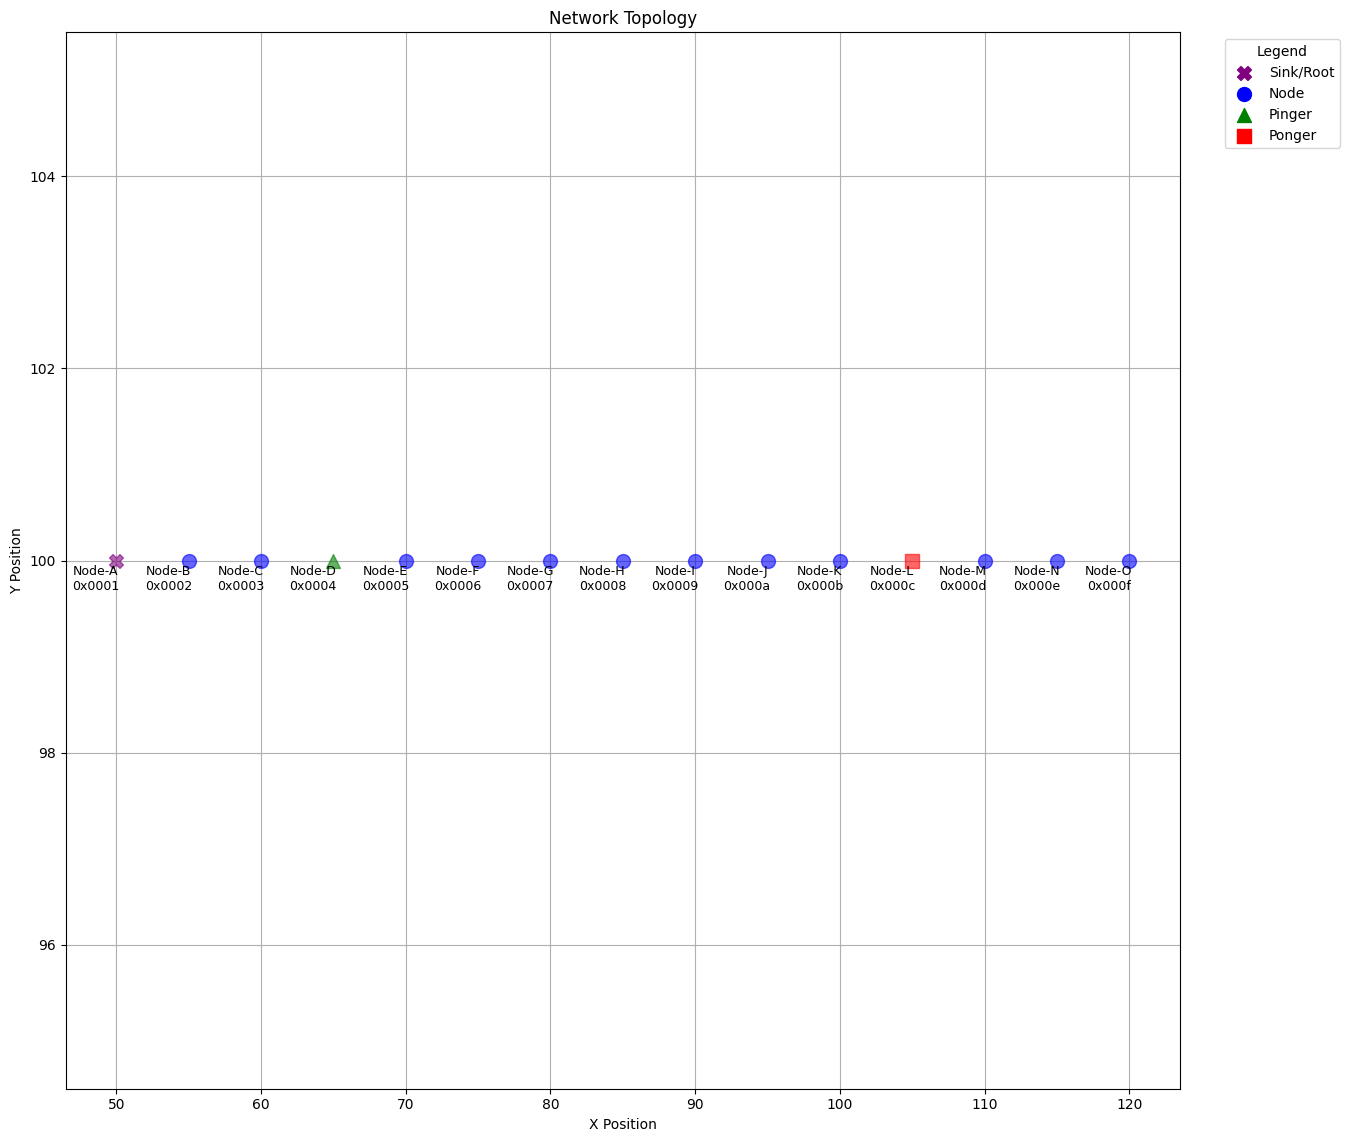
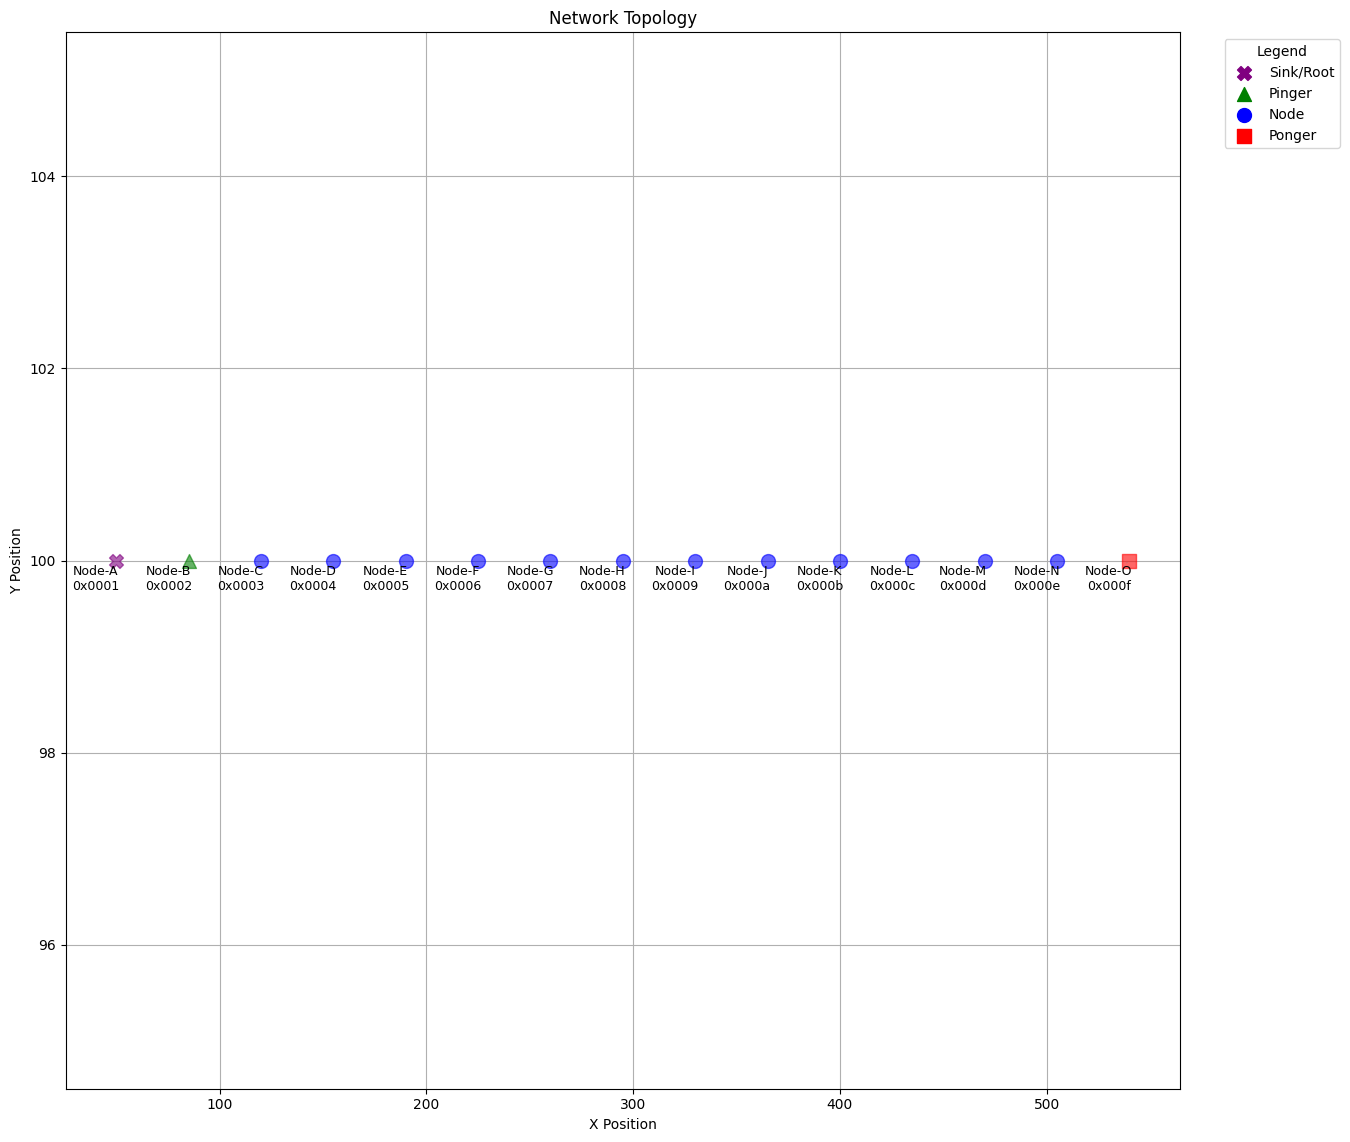
tried 2 different channels

Changed region(s): [[0.9022, 0.0613, 0.9644, 0.1226], [0.6533, 0.4904, 0.6844, 0.521]]

diff --git a/src/evaluation/pingpong.py b/src/evaluation/pingpong.py
@@ -95,16 +95,17 @@ def main(
     nodes = {}
     addrs = {}
 
-    #positions = get_ring_topology_positions(num_nodes, radius=150)
-    #topology_image_path = "ring_topology.png"
-    positions = get_linear_topology_positions(
-        num_nodes, node_distance, start_x=50, start_y=100, increase_y=False
-    )
-    topology_image_path = "linear_topology.png"
+    positions = get_ring_topology_positions(num_nodes, radius=150)
+    topology_image_path = "ring_topology.png"
+    #positions = get_linear_topology_positions(
+    #    num_nodes, node_distance, start_x=50, start_y=100, increase_y=False
+    #)
+    #topology_image_path = "linear_topology.png"
 
-    pinger_idx = num_nodes // 4  # node at 1/4 of the ring
-    ponger_idx = (3 * num_nodes) // 4  # node at 3/4 of the ring (opposite side)
-
+    #pinger_idx = num_nodes // 4  # node at 1/4 of the ring
+    #ponger_idx = (3 * num_nodes) // 4  # node at 3/4 of the ring (opposite side)
+    pinger_idx = 1
+    ponger_idx = num_nodes - 1
     #plot_topology(positions, title="Network Topology", save_path="topology.png")
     plot_info = {}
 
@@ -191,21 +192,43 @@ def main(
 if __name__ == "__main__":
 
     kernel_seed = 12345
+
+
+    # --- Scenario A (easy): Stable Multi-Hop  ---
+    # 1-hop (35m) links are good; 2-hop (70m) links are dead.
+    # The TARP tree should form a stable linear chain.
+    #bootstrap_params = {
+    #    "seed": 12345,
+    #    "dspace_step": 1,
+    #    "dspace_npt": 200,
+    #    "freq": 2.4e9,
+    #    "filter_bandwidth": 2e6,
+    #    "coh_d": 50,          # Stable shadowing (high spatial correlation)
+    #    "shadow_dev": 2.0,    # Low shadowing variance
+    #    "pl_exponent": 3.5,   # Moderately high signal attenuation
+    #    "d0": 1.0,
+    #    "fading_shape": 3.0,  # Rician fading (stable links)
+    #}
+
+    # --- Scenario B (harsh): Dynamic and Unstable Multi-Hop ---
+    # 1-hop (35m) links are unreliable.
+    # The TARP tree will be unstable, testing ETX responsiveness and failover.
     bootstrap_params = {
         "seed": 12345,
         "dspace_step": 1,
         "dspace_npt": 200,
         "freq": 2.4e9,
         "filter_bandwidth": 2e6,
-        "coh_d": 7,  # Reduced coherence distance for a less stable channel
-        "shadow_dev": 6.0,  # Increased shadow deviation for more spatial variation
-        "pl_exponent": 4.0,  # Higher path loss exponent to simulate more obstruction
+        "coh_d": 10,          # Highly variable shadowing (low spatial correlation)
+        "shadow_dev": 6.0,    # High shadowing variance
+        "pl_exponent": 4.0,   # Severe signal attenuation
         "d0": 1.0,
-        "fading_shape": 0.5,  # Lower value to introduce severe, rapid fading
+        "fading_shape": 0.75, # Almost-Rayleigh fading (very unstable links)
     }
 
+
     num_nodes = 15
-    node_distance = 5  # I can reduce this to make the channel easier
+    node_distance = 35  # I can reduce this to make the channel easier
     simulation_time = 1200.0
 
     # Bootstrap the kernel with given parameters
